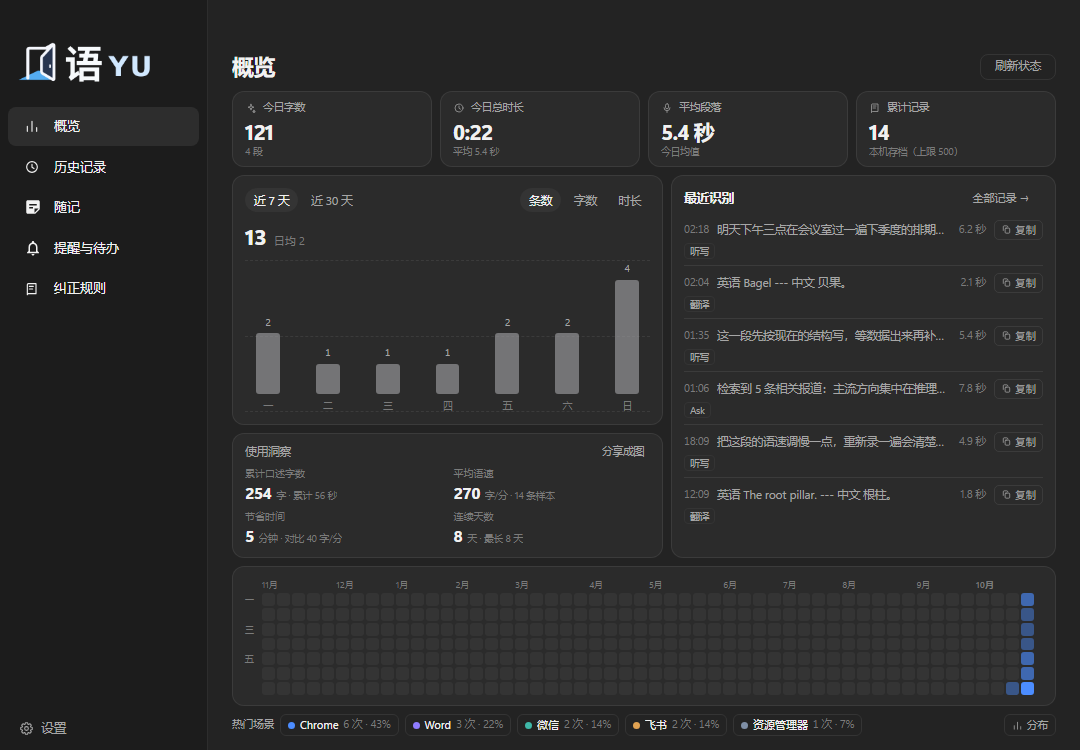
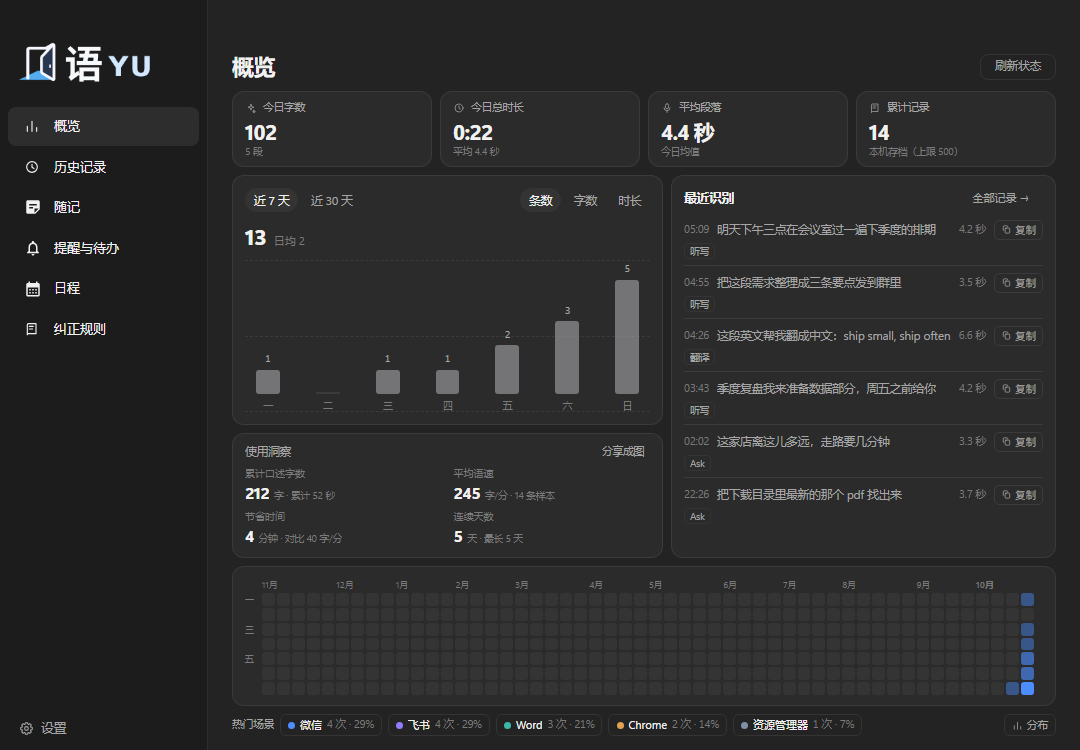
docs: refresh screenshots and bump to 1.0.0-rc.5
The settings page gained a life section and an automation section, and
the calendar has its own page in the main window, so the screenshots were
retaken against demo data.

diff --git a/README.en.md b/README.en.md
@@ -36,9 +36,13 @@ A Windows voice input and local AI assistant: press a hotkey, speak, and the cle
 | --- | --- |
 | ![Bar](resources/screenshots/bar-recording.png) | ![Answer card](resources/screenshots/card-answer.png) |
 
-| History | Settings (general) |
+| History | Events |
 | --- | --- |
-| ![History](resources/screenshots/hub-history.png) | ![Settings](resources/screenshots/prefs-general.png) |
+| ![History](resources/screenshots/hub-history.png) | ![Events](resources/screenshots/hub-calendar.png) |
+
+| Settings (general) | Settings (automation) |
+| --- | --- |
+| ![Settings](resources/screenshots/prefs-general.png) | ![Automation](resources/screenshots/prefs-automation.png) |
 
 ![AI & models](resources/screenshots/prefs-models.png)
 
@@ -47,6 +51,8 @@ A fresh install has no working connections: this is where you add a recognition 
 ![Schedule & briefing](resources/screenshots/prefs-life.png)
 
 Events carry a start, an end, a location and an advance alert, and can be imported from or exported to ICS. The daily briefing folds today's events, due to-dos, overdue items and tomorrow's preview into one paragraph you can have read aloud, and quiet hours hold it back. Events have their own page under Reminders in the main window, and the calendar and its data stay on this machine.
+
+The automation page lists the workflows you saved: describe a run of steps once, then replay it with a single sentence — no model in the loop, each step reported as it finishes.
 
 ## Quick start
 
